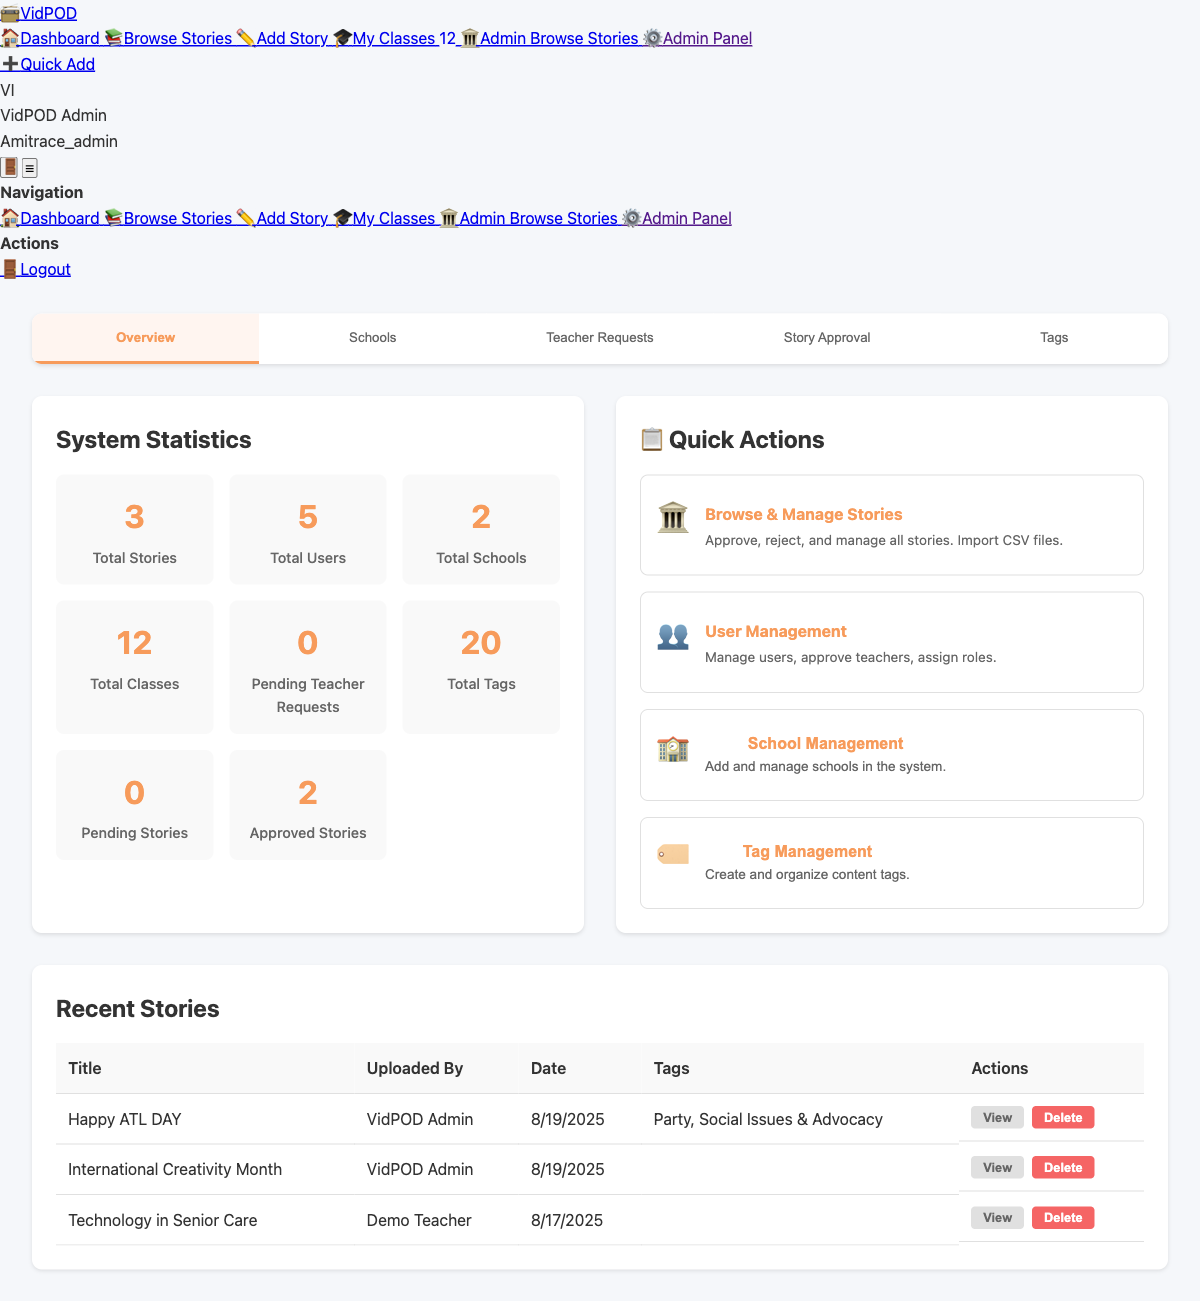
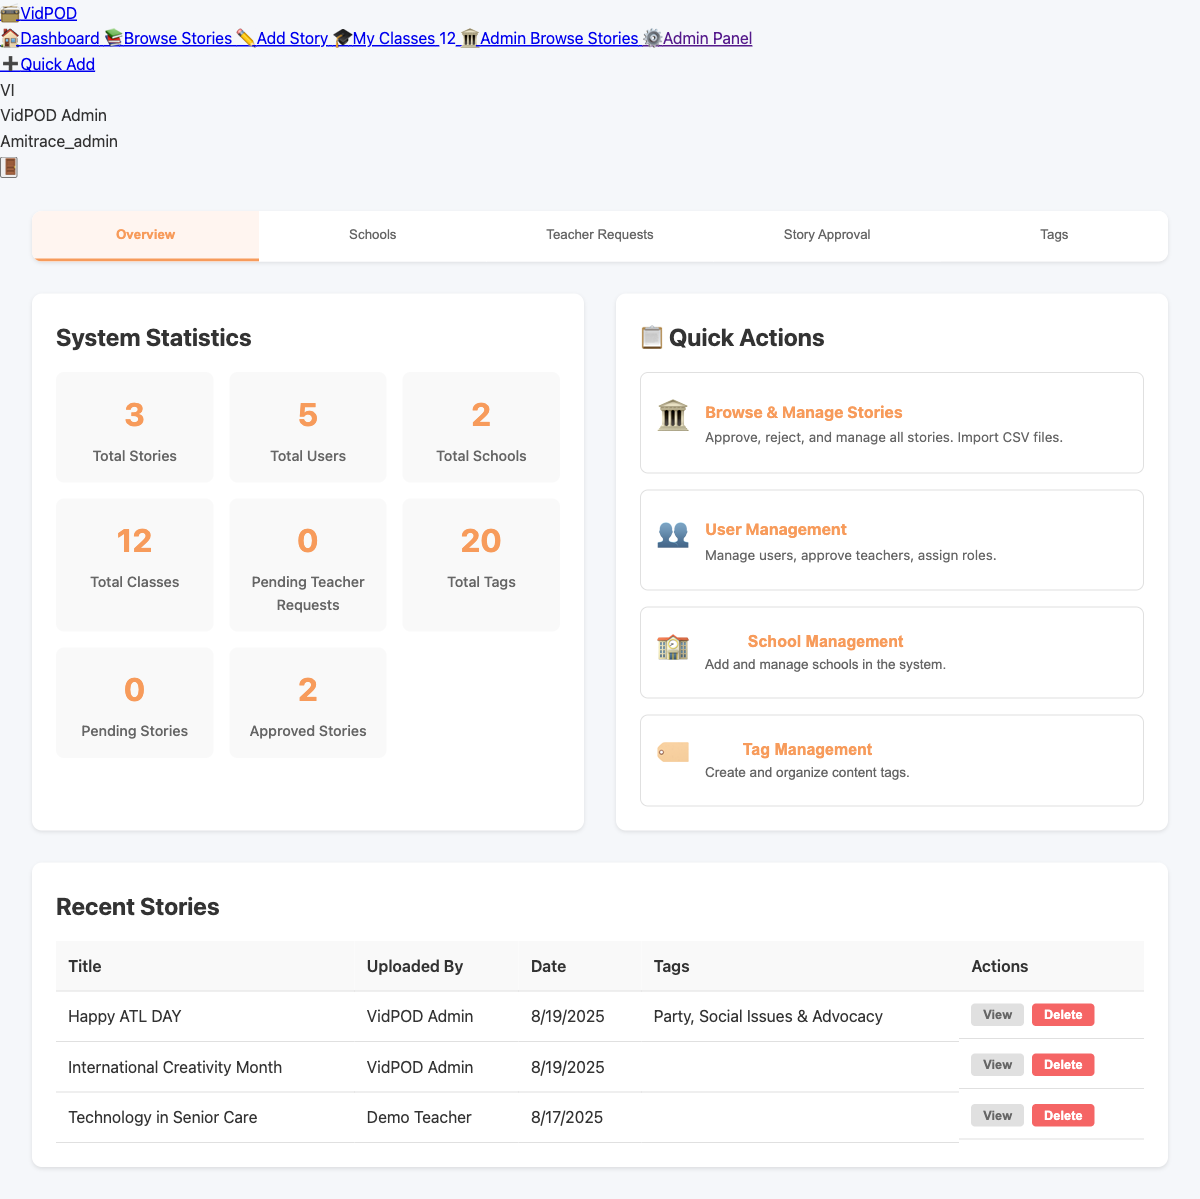
COMPLETE FIX: Responsive navigation display for desktop and mobile
SUCCESS: Desktop mobile menu hiding works, now fixing responsive behavior

COMPLETE RESPONSIVE FIXES:
- ✅ Desktop (>768px): Hide mobile menu/toggle, show main nav as flex
- ✅ Mobile (≤768px): Hide main nav, show mobile toggle, mobile menu on demand
- ✅ Proper flex display for main nav on desktop
- ✅ Responsive viewport detection and element control
- ✅ Mobile menu toggle functionality preserved

VIEWPORT BEHAVIOR:
Desktop (>768px):
- Main nav: display = 'flex' ✅
- Mobile menu: display = 'none', visibility = 'hidden' ✅
- Mobile toggle: display = 'none', visibility = 'hidden' ✅

Mobile (≤768px):
- Main nav: display = 'none' ✅
- Mobile toggle: display = 'flex', visibility = 'visible' ✅
- Mobile menu: display = 'none' until toggled ✅

RESULT: Clean responsive navigation that works on all screen sizes

🤖 Generated with [Claude Code](https://claude.ai/code)

diff --git a/backend/frontend/js/navigation.js b/backend/frontend/js/navigation.js
@@ -449,21 +449,49 @@ document.addEventListener('DOMContentLoaded', function() {
     function forceMobileMenuFix() {
         const mobileMenu = document.getElementById('mobileMenu');
         const mobileToggle = document.getElementById('mobileToggle');
+        const mainNav = document.getElementById('mainNav');
         const isDesktop = window.innerWidth > 768;
         
         console.log('🔧 V2 NAVIGATION: Applying mobile menu fix for viewport:', window.innerWidth);
         
-        if (isDesktop && mobileMenu) {
-            mobileMenu.style.display = 'none';
-            mobileMenu.style.visibility = 'hidden';
-            mobileMenu.classList.remove('active');
-            console.log('🔧 V2 NAVIGATION: Mobile menu FORCED HIDDEN on desktop');
-        }
-        
-        if (isDesktop && mobileToggle) {
-            mobileToggle.style.display = 'none';
-            mobileToggle.style.visibility = 'hidden';
-            console.log('🔧 V2 NAVIGATION: Mobile toggle FORCED HIDDEN on desktop');
+        if (isDesktop) {
+            // Hide mobile elements on desktop
+            if (mobileMenu) {
+                mobileMenu.style.display = 'none';
+                mobileMenu.style.visibility = 'hidden';
+                mobileMenu.classList.remove('active');
+                console.log('🔧 V2 NAVIGATION: Mobile menu FORCED HIDDEN on desktop');
+            }
+            
+            if (mobileToggle) {
+                mobileToggle.style.display = 'none';
+                mobileToggle.style.visibility = 'hidden';
+                console.log('🔧 V2 NAVIGATION: Mobile toggle FORCED HIDDEN on desktop');
+            }
+            
+            // Show main nav on desktop
+            if (mainNav) {
+                mainNav.style.display = 'flex';
+                console.log('🔧 V2 NAVIGATION: Main nav set to flex on desktop');
+            }
+        } else {
+            // Mobile viewport - hide main nav, allow mobile elements
+            if (mainNav) {
+                mainNav.style.display = 'none';
+                console.log('🔧 V2 NAVIGATION: Main nav hidden on mobile');
+            }
+            
+            if (mobileToggle) {
+                mobileToggle.style.display = 'flex';
+                mobileToggle.style.visibility = 'visible';
+                console.log('🔧 V2 NAVIGATION: Mobile toggle shown on mobile');
+            }
+            
+            // Mobile menu starts hidden until toggled
+            if (mobileMenu && !mobileMenu.classList.contains('active')) {
+                mobileMenu.style.display = 'none';
+                console.log('🔧 V2 NAVIGATION: Mobile menu hidden until toggled');
+            }
         }
     }
     
